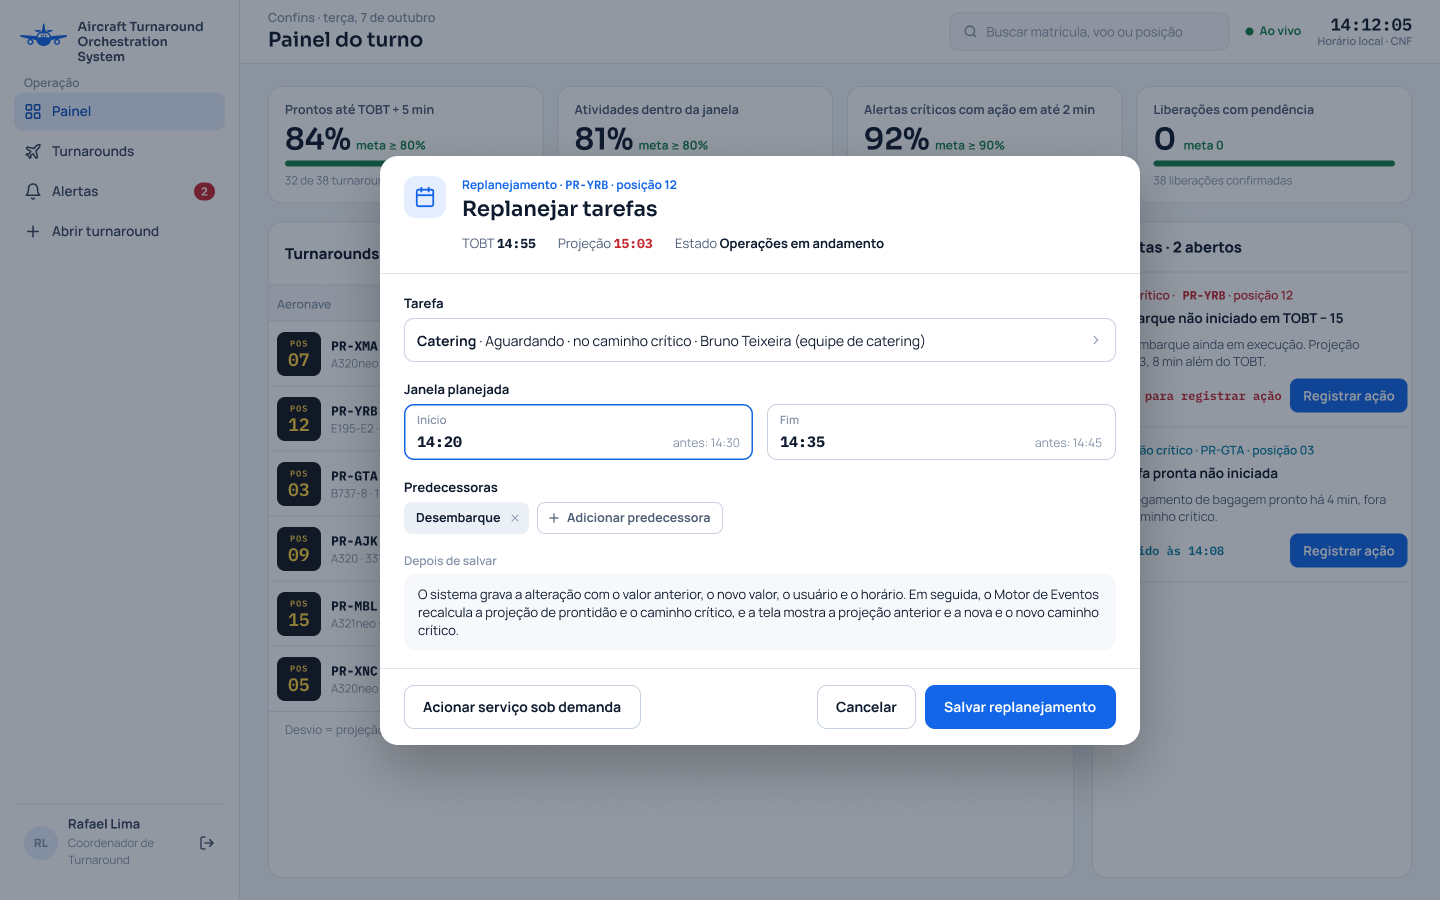
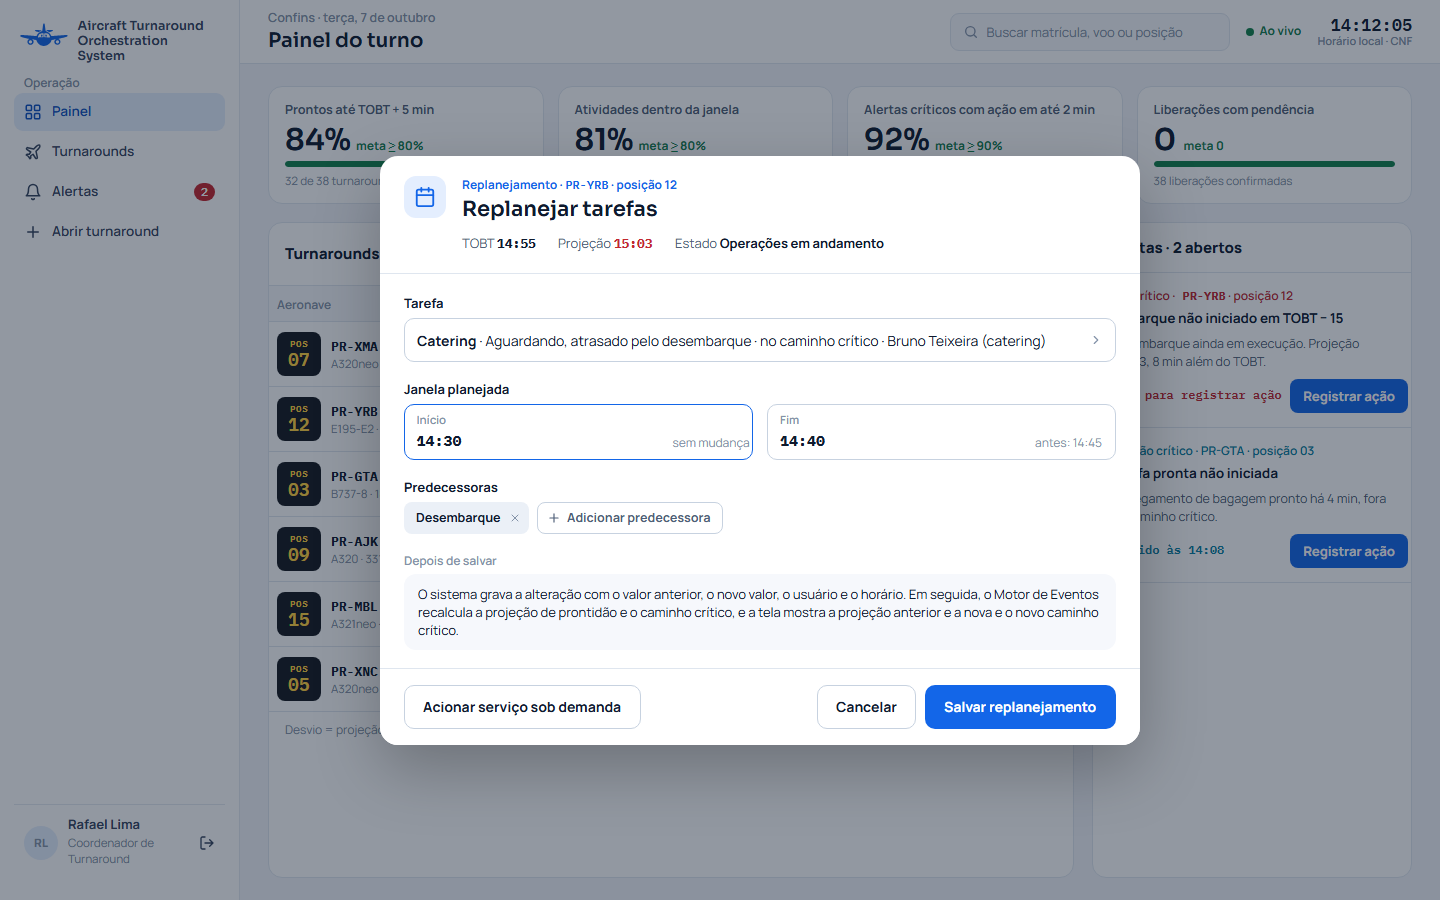
fix(area-d): tela do UC35 com o fim do catering antecipado (#155)
PNG gerado do canvas (versão 18) por renderização local do .dc.html.

diff --git a/CHANGELOG.md b/CHANGELOG.md
@@ -54,7 +54,7 @@ Cada versão entregue tem uma tag Git `vX.Y.Z` no commit que gerou o PDF enviado
 
 ### Alterado
 
-- US042, critério 1, e UC35 (passos 3 e 4 e RN3): o exemplo do replanejamento passa de "antecipar em 10 minutos a janela do catering" para "encurtar em 5 minutos a janela do catering atrasado pelo desembarque". Pela RN2 do UC24 e pelo RF-8, a sucessora não começa antes do próprio início planejado, então antecipar só uma tarefa não muda a projeção, e o exemplo não mostrava ganho; a RN3 do UC35 passa a dizer isso. O CT-D052 e a massa do PR-DCA acompanham a mudança ([#155](https://github.com/Aircraft-Turnaround-Operations-Manager/aircraft-turnaround-docs/issues/155)).
+- US042, critério 1, e UC35 (passos 3 e 4 e RN3): o exemplo do replanejamento passa de "antecipar em 10 minutos a janela do catering" para "encurtar em 5 minutos a janela do catering atrasado pelo desembarque". Pela RN2 do UC24 e pelo RF-8, a sucessora não começa antes do próprio início planejado, então antecipar só uma tarefa não muda a projeção, e o exemplo não mostrava ganho; a RN3 do UC35 passa a dizer isso. O CT-D052, a massa do PR-DCA e a tela `uc-d7-replanejar-tarefas` (canvas, versão 18, e o PNG do item 10: início 14:30 sem mudança, fim 14:40) acompanham a mudança ([#155](https://github.com/Aircraft-Turnaround-Operations-Manager/aircraft-turnaround-docs/issues/155)).
 - Item 12 e Apêndice B: os dois avisos entre o Monitoramento e o Exceções e Liberação ganham nome e campos, e o prazo de 2 minutos da ação sobre alerta crítico ganha um dono. `AcaoAlertaRegistrada` vai do Exceções e Liberação ao Monitoramento, que encerra o alerta (RF-38); `ProjecaoRecalculada` vai do Monitoramento ao Exceções e Liberação a cada projeção gravada, e quem a compara com o horário-alvo de prontidão (TOBT) vigente é o Exceções e Liberação (RF-41). O prazo de 2 minutos vem de uma só chave de configuração (RNF-21): no indicador do RF-34 e na lista de alertas vale a cópia do Monitoramento, e o Exceções e Liberação a usa só para mostrar o tempo restante no UC31. O acordo entre as áreas C e D estava só nos comentários da issue e nos diagramas da área C ([#183](https://github.com/Aircraft-Turnaround-Operations-Manager/aircraft-turnaround-docs/issues/183)).
 - Item 13: a nova versão da tabela de códigos de atraso da Agência Nacional de Aviação Civil (ANAC) passa a ser uma carga técnica, sem ator do sistema, que vem da configuração do serviço: o `CodigoAtrasoController` perde o `carregarVersao`, e a rotina `CargaTabelaCodigoAtraso` grava o arquivo da configuração como nova versão ao iniciar. Nenhum requisito funcional nem caso de uso tratava da carga, e o RNF-22 pede só que ela venha de um arquivo, sem mudar o código. O item 13 também cita o token de serviço da ADR-0025 nos pedidos entre serviços ([#207](https://github.com/Aircraft-Turnaround-Operations-Manager/aircraft-turnaround-docs/issues/207)).
 - Itens 12 e 13: o plano confirmado (`PlanoConfirmado`) passa a levar o horário-alvo de prontidão (TOBT) planejado, e a Execução em Solo grava esse valor em `turnaround.tobt_vigente`, agora obrigatório, até o primeiro aviso de TOBT vigente do Exceções e Liberação. Antes, a cópia ficava vazia até a primeira atualização, e a tela de saída da posição (UC37) não tinha TOBT para mostrar. Fecha a última linha aberta da [#179](https://github.com/Aircraft-Turnaround-Operations-Manager/aircraft-turnaround-docs/issues/179).
